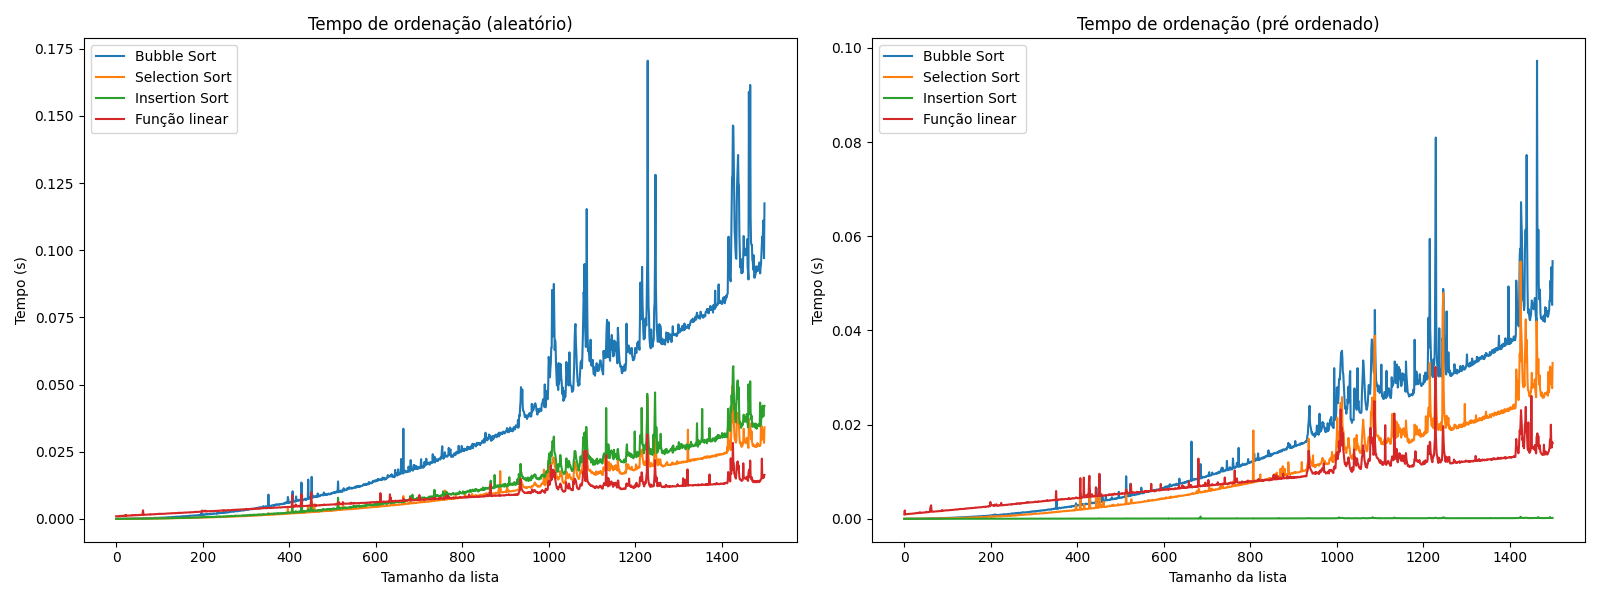
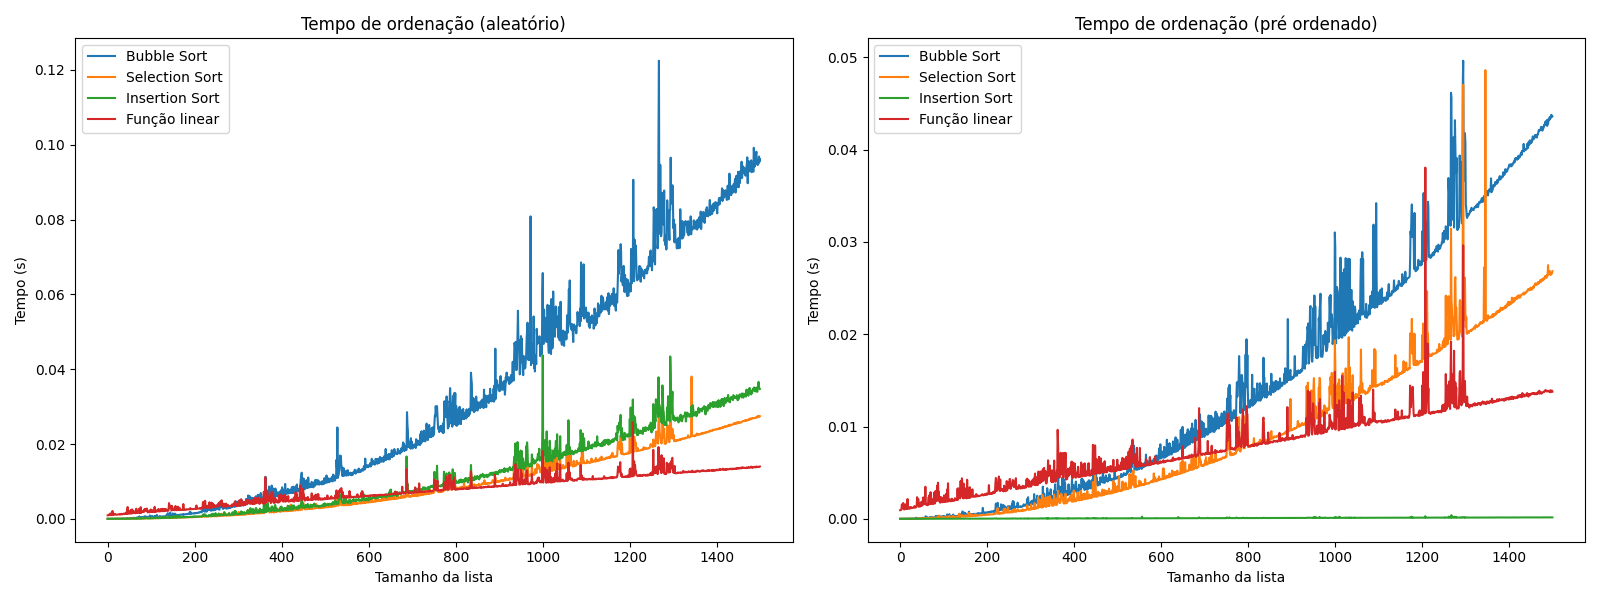
Matrizes 1

diff --git a/09-28/ex5.py b/09-28/ex5.py
@@ -1,0 +1,41 @@
+def multiplica_matriz(a, b):
+    """
+        cij = sum(akj * bjk)
+    """
+    if len(a[0]) != len(b):
+        return [[]]
+
+    matriz = []
+    for i in range(len(a)): # Linha atual
+        linha = []
+        for j in range(len(b[i])): # Coluna atual
+            elemento = 0
+            for k in range(len(a[i])): # Somatório
+                elemento += a[i][k] * b[k][j]
+            linha.append(elemento)
+        matriz.append(linha)
+
+    return matriz
+
+[1 ,2 , 3, 4, 5, 6, 7, 8, 9]
+
+
+def imprimir_matriz(m):
+    """
+        Imprime uma matriz de um jeito bonito
+    """
+    for linha in m:
+        print(linha)
+
+
+a = [
+    [1, 2],
+    [3, 4]
+]
+
+b = [
+    [5],
+    [6]
+]
+
+imprimir_matriz(multiplica_matriz(a, b))

diff --git a/09-28/ex4.py b/09-28/ex4.py
@@ -1,0 +1,34 @@
+def soma_matriz(a, b):
+    # cij = aij + bij
+    if len(a) != len(b) or len(a[0]) != len(b[0]):
+        return [[]]
+
+    resultado = []
+    for i in range(len(a)):
+        linha = []
+        for j in range(len(a[i])):
+            linha.append(a[i][j] + b[i][j])
+        resultado.append(linha)   
+
+    return resultado         
+
+def imprimir_matriz(m):
+    """
+        Imprime uma matriz de um jeito bonito
+    """
+    for linha in m:
+        print(linha)
+
+a = [
+    [1, 2],
+    [3, 4],
+    [5, 6]
+]
+
+b = [
+    [5, 6],
+    [1, 3],
+    [4, 2]
+]
+
+imprimir_matriz(soma_matriz(a, b))

diff --git a/09-28/ex3.py b/09-28/ex3.py
@@ -1,0 +1,25 @@
+def calcula_transposta(matriz):
+    transposta = []
+    for i in range(len(matriz)):
+        linha = []
+        for j in range(len(matriz[i])):
+            linha.append(matriz[j][i])
+        transposta.append(linha)
+    return transposta
+
+def imprimir_matriz(m):
+    """
+        Imprime uma matriz de um jeito bonito
+    """
+    for linha in m:
+        print(linha)
+
+m = [
+    [1, 2, 3],
+    [4, 5, 6],
+    [7, 8, 9]
+]
+
+imprimir_matriz(m)
+print()
+imprimir_matriz(calcula_transposta(m))

diff --git a/09-28/ex1.py b/09-28/ex1.py
@@ -1,0 +1,24 @@
+# 1 5 6 
+# 1 7 9
+#
+
+def ler_linha_por_linha():
+    matriz = []
+    while True:
+        entrada = input("Próxima linha: ")
+        if entrada == "":
+            return matriz
+
+        linha = entrada.split()
+        matriz.append(linha)
+
+
+def imprimir_matriz(m):
+    """
+        Imprime uma matriz de um jeito bonito
+    """
+    for linha in m:
+        print(linha)
+
+
+imprimir_matriz(ler_linha_por_linha())

diff --git a/09-28/ex2.py b/09-28/ex2.py
@@ -1,0 +1,28 @@
+def checar_matriz(matriz):
+    if len(matriz) == 0:
+        return False
+
+    largura = len(matriz[0])
+    for i in range(1, len(matriz)):
+        if largura != len(matriz[i]):
+            return False
+
+    return True
+
+
+matriz = [
+    [1, 2],
+    [3, 4],
+    [5, 6],
+    [7, 8]
+]
+
+print(checar_matriz(matriz))
+
+nao_matriz = [
+    [1, 2],
+    [3, 4, 5],
+    [6]
+]
+
+print(checar_matriz(nao_matriz))

diff --git a/09-28/criando_matrizes.py b/09-28/criando_matrizes.py
@@ -1,0 +1,16 @@
+# M - largura
+# N - altura
+
+m = int(input("M = "))
+n = int(input("N = "))
+
+matriz = []
+for i in range(n):
+    linha = []
+    for j in range(m):
+        linha.append(input(f"Insira item na posição {(i, j)}"))
+    matriz.append(linha)
+
+print(matriz)
+    
+    

diff --git a/09-28/imprimindo_matrizes.py b/09-28/imprimindo_matrizes.py
@@ -1,0 +1,14 @@
+def imprimir_matriz(m):
+    """
+        Imprime uma matriz de um jeito bonito
+    """
+    for linha in m:
+        print(linha)
+
+m = [
+    [1, 2, 3],
+    [4, 5, 6],
+    [7, 8, 9]
+]
+
+imprimir_matriz(m)

diff --git a/09-28/iterando_matrizes.py b/09-28/iterando_matrizes.py
@@ -1,0 +1,9 @@
+matriz = [
+    ["a", "b", "c"],
+    ["d", "e", "f"],
+    ["g", "h", "i"]
+]
+
+for i in range(len(matriz)):
+    for j in range(len(matriz[i])):
+        print(f"{(j, i)} - {matriz[j][i]}")

diff --git a/09-28/matrizes.py b/09-28/matrizes.py
@@ -1,0 +1,7 @@
+m = [
+    [1, 2, 3.14],
+    [4, "oi", 6, 3, 4, 6, 7, 8, 9, 0],
+    [[1, {"A": "B"}], 8, False]
+]
+
+print(m)

diff --git a/09-28/acessando_elementos.py b/09-28/acessando_elementos.py
@@ -1,0 +1,7 @@
+matriz = [
+    ["a", "b", "c"],
+    ["d", "e", "f"],
+    ["g", "h", "i"]
+]
+
+print(matriz[0][3])
